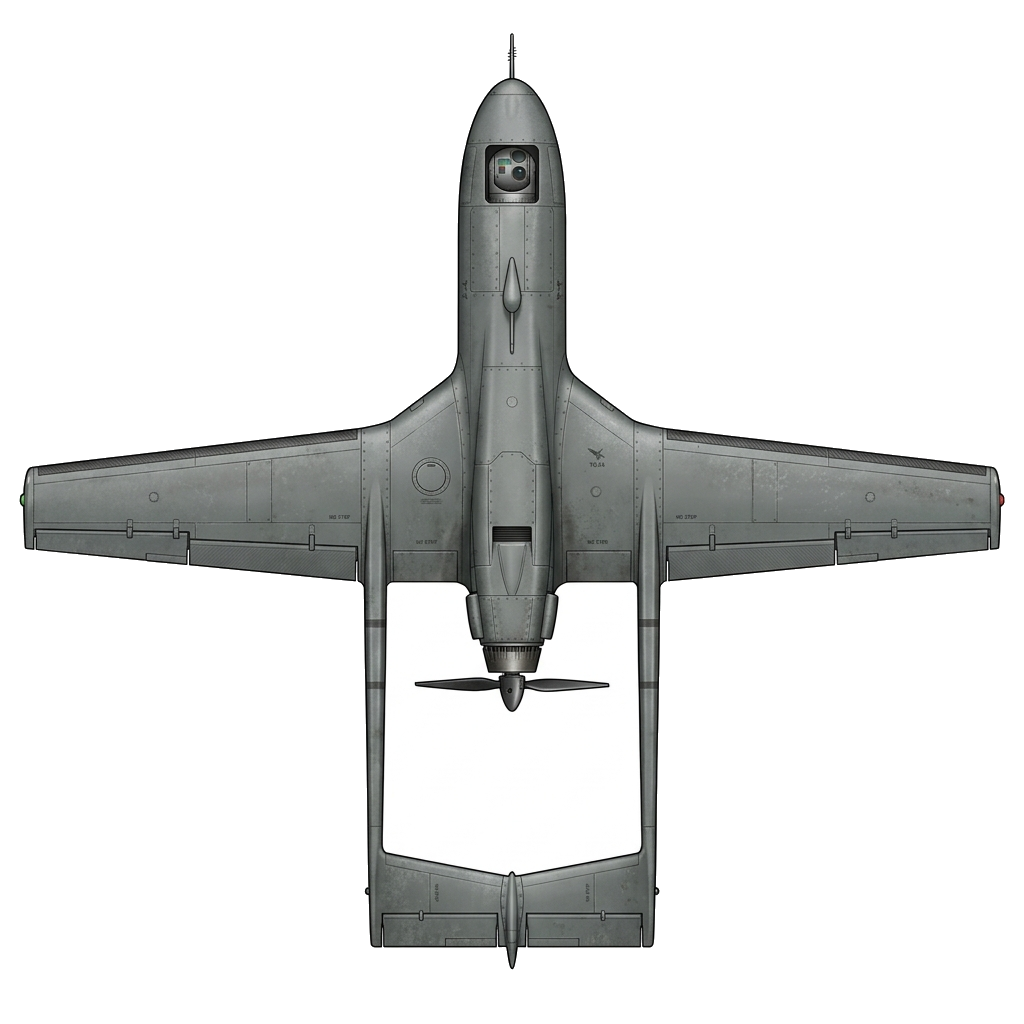
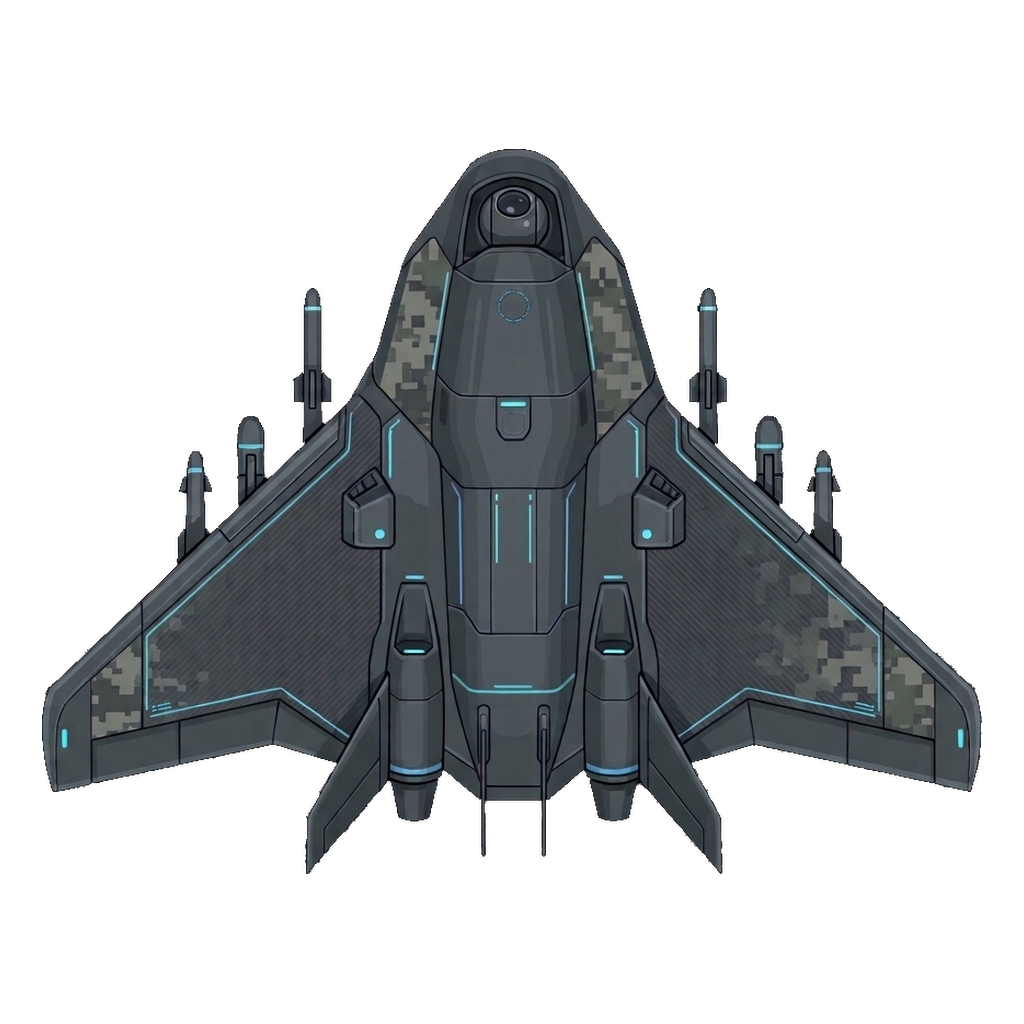
feat(drone): 1:1 in-game MK-1 starter wingman drone matching reference design

diff --git a/My project/Assets/Scripts/Player/DroneCompanion.cs b/My project/Assets/Scripts/Player/DroneCompanion.cs
@@ -119,14 +119,6 @@ public class DroneCompanion : MonoBehaviour
             _                         => 1100f
         };
 
-        string resName = System.IO.Path.GetFileNameWithoutExtension(fileName);
-        Sprite resSpr = Resources.Load<Sprite>(resName);
-        if (resSpr != null)
-        {
-            _droneSpriteCache[type] = resSpr;
-            return resSpr;
-        }
-
         string fullPath = System.IO.Path.Combine(Application.dataPath, "Sprites", fileName);
         if (System.IO.File.Exists(fullPath))
         {
@@ -147,6 +139,14 @@ public class DroneCompanion : MonoBehaviour
             {
                 Debug.LogWarning("[DroneCompanion] Gerçek drone görseli yüklenirken hata: " + ex.Message);
             }
+        }
+
+        string resName = System.IO.Path.GetFileNameWithoutExtension(fileName);
+        Sprite resSpr = Resources.Load<Sprite>(resName);
+        if (resSpr != null)
+        {
+            _droneSpriteCache[type] = resSpr;
+            return resSpr;
         }
 
         // 2. Dosya bulunamazsa yedek usulü oluştur
@@ -345,7 +345,7 @@ public class DroneCompanion : MonoBehaviour
 
         Color flameColor = droneType switch
         {
-            DroneType.MK1_Scout       => new Color(0.2f, 0.95f, 0.4f, 0.9f),
+            DroneType.MK1_Scout       => new Color(0.18f, 0.88f, 1f, 0.92f),
             DroneType.MK2_Interceptor => new Color(0.1f, 0.85f, 1f, 0.9f),
             DroneType.MK3_Striker     => new Color(0.95f, 0.25f, 0.2f, 0.9f),
             DroneType.MK4_Missile     => new Color(1f, 0.55f, 0.12f, 0.9f),
@@ -681,7 +681,7 @@ public class DroneCompanion : MonoBehaviour
 
         SpriteRenderer bSr = bolt.AddComponent<SpriteRenderer>();
         bSr.sprite = GetDroneBulletSprite();
-        bSr.color = new Color(0.7f, 1f, 0.7f);
+        bSr.color = new Color(0.35f, 0.92f, 1f);
         bSr.sortingOrder = 7;
         bolt.transform.localScale = Vector3.one * 0.85f;
 
